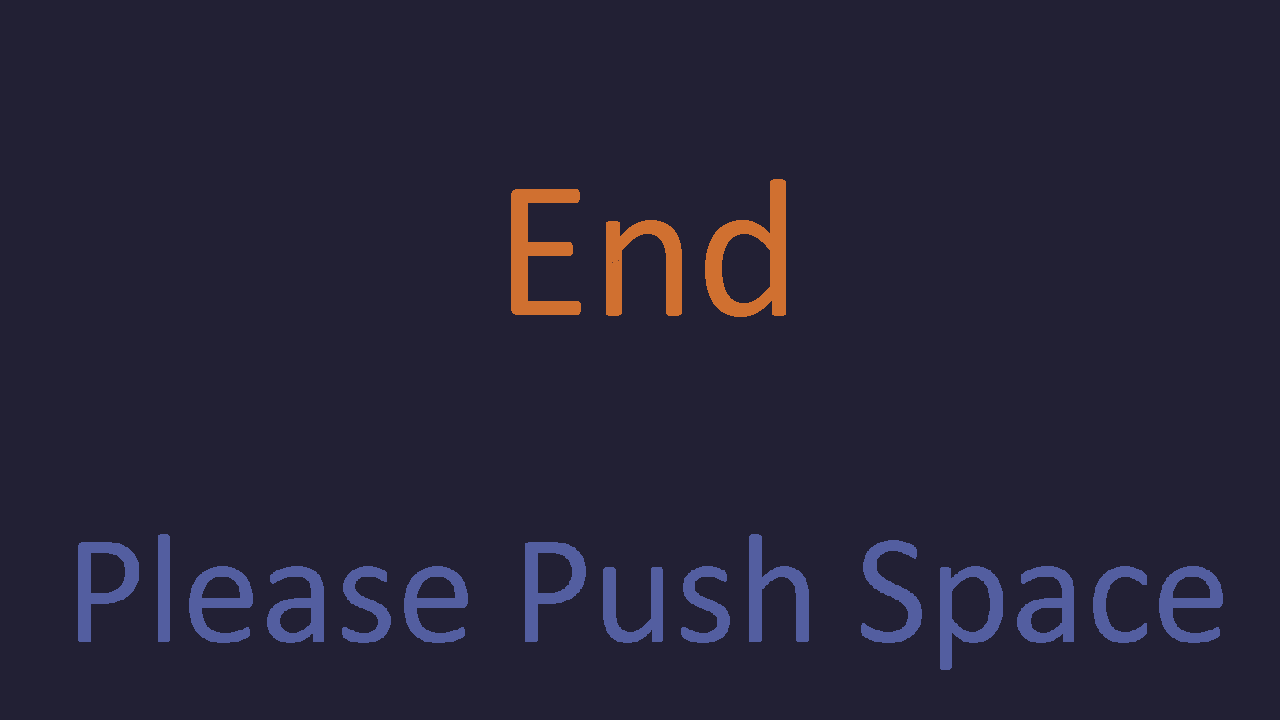
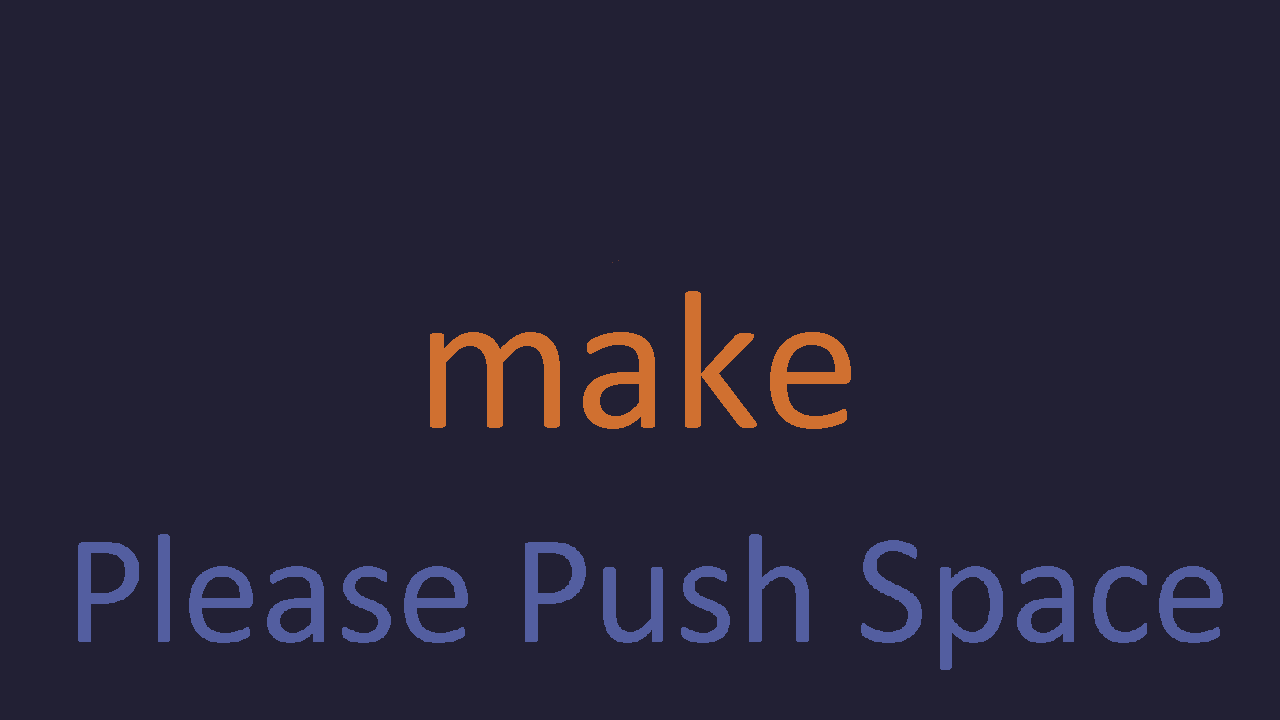
アルファ版。一連のシーン遷移完成（クリア、負けも判断してる、シーンはどちらもエンドシーンに統括されてる）タワーで倒された敵が裏返った後プレイヤーとあたらないようにした。

Changed region(s): [[0.3125, 0.2444, 0.6875, 0.6111]]

diff --git a/Scene/BatlleScene.cpp b/Scene/BatlleScene.cpp
@@ -83,8 +83,8 @@ void BatlleScene::Update(int& sceneNo, GameScene* gameScene)
 	}
 
 
-
-	EnemyZako::Action();
+	EnemyZako::isAction = 1;
+	//EnemyZako::Action();
 
 	XMFLOAT3 rote = player->object->GetRotation();
 	XMFLOAT3 pos = player->object->GetPosition();
@@ -161,11 +161,11 @@ void BatlleScene::Update(int& sceneNo, GameScene* gameScene)
 		player->Cure(5);
 		sceneNo = SceneManager::SCENE_END;
 	}
-	if (Input::GetInstance()->TriggerKey(DIK_B)) {
-		gameScene->SetEnemy(enemy1);
-		player->object->SetPosition(player->outPos);
-		sceneNo = SceneManager::SCENE_GAME;
-	}
+	//if (Input::GetInstance()->TriggerKey(DIK_B)) {
+	//	gameScene->SetEnemy(enemy1);
+	//	player->object->SetPosition(player->outPos);
+	//	sceneNo = SceneManager::SCENE_GAME;
+	//}
 
 }
 

diff --git a/EndScene.cpp b/EndScene.cpp
@@ -7,6 +7,7 @@ void EndScene::Initialize(DirectXCommon* dxCommon)
 	assert(dxCommon);
 	this->dxCommon = dxCommon;
 	sprite = Sprite::Create(6, { 0,0 });
+	katisprite = Sprite::Create(8, { 0,0 });
 }
 
 void EndScene::Update(int& sceneNo)
@@ -16,9 +17,15 @@ void EndScene::Update(int& sceneNo)
 	}
 }
 
-void EndScene::Draw()
+void EndScene::Draw(int& sceneNo)
 {
 	Sprite::PreDraw(dxCommon->GetCmdList());
-	sprite->Draw();
+	if (sceneNo == SceneManager::SCENE_KATI) {
+		katisprite->Draw();
+	}
+	else{
+		sprite->Draw();
+	}
+	
 	Sprite::PostDraw();
 }

diff --git a/TitleScene.cpp b/TitleScene.cpp
@@ -14,7 +14,7 @@ void TitleScene::Initialize(DirectXCommon* dxCommon)
 	black->SetAlpha(blackOutAlpha);
 }
 
-void TitleScene::Update(int& sceneNo)
+void TitleScene::Update(int& sceneNo, bool& initFlag)
 {
 	if (Input::GetInstance()->TriggerKey(DIK_SPACE)) {
 		blackOutFlag = true;
@@ -25,6 +25,7 @@ void TitleScene::Update(int& sceneNo)
 
 	if (BlackOut() == black_end) {
 		sceneNo = SceneManager::SCENE_GAME;
+		initFlag = true;
 	}
 	BlackIn();
 }

diff --git a/Scene/SceneManager.h b/Scene/SceneManager.h
@@ -14,7 +14,8 @@ public:
 		SCENE_TITLE,
 		SCENE_GAME,
 		SCENE_BATTLE,
-		SCENE_END
+		SCENE_END,
+		SCENE_KATI
 	};
 
 public:
@@ -28,5 +29,7 @@ public:
 	EndScene* endScene = nullptr;
 
 	int sceneNo = SCENE_NONE;
+
+	bool initFlag = 0;
 };
 

diff --git a/Tower/DefenseTower.h b/Tower/DefenseTower.h
@@ -32,7 +32,7 @@ private:
 	int hp = maxHp;
 	std::list<std::unique_ptr<Bullet>>bullets;
 
-	const int maxInterval = 10;
+	const int maxInterval = 120;
 	int interval = maxInterval;
 
 	std::weak_ptr<EnemyZako> targetEnemy;
